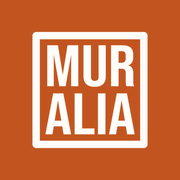
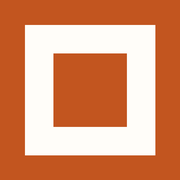
Actualizar sitio

diff --git a/index.html b/index.html
@@ -5,6 +5,7 @@
 <meta name="viewport" content="width=device-width, initial-scale=1.0">
 <title>Muralia | Aislación Térmica, Acústica y Protección Contra Incendios</title>
 <meta name="description" content="Muralia — más de 25 años en aislación térmica y acústica, protección pasiva contra incendios, tabiques, cielos y fachadas ventiladas en Chile.">
+<link rel="icon" type="image/svg+xml" href="favicon.svg">
 <link rel="icon" type="image/x-icon" href="favicon.ico">
 <link rel="icon" type="image/png" sizes="32x32" href="favicon-32.png">
 <link rel="apple-touch-icon" href="apple-touch-icon.png">

diff --git a/productos.html b/productos.html
@@ -5,6 +5,7 @@
 <meta name="viewport" content="width=device-width, initial-scale=1.0">
 <title>Productos | Muralia</title>
 <meta name="description" content="Aislación térmica y acústica, protección pasiva contra incendios, tabiques y cielos, y más soluciones Muralia para la construcción.">
+<link rel="icon" type="image/svg+xml" href="favicon.svg">
 <link rel="icon" type="image/x-icon" href="favicon.ico">
 <link rel="icon" type="image/png" sizes="32x32" href="favicon-32.png">
 <link rel="apple-touch-icon" href="apple-touch-icon.png">

diff --git a/empresa.html b/empresa.html
@@ -5,6 +5,7 @@
 <meta name="viewport" content="width=device-width, initial-scale=1.0">
 <title>Empresa | Muralia</title>
 <meta name="description" content="Conoce Muralia: más de 25 años de trayectoria en aislación térmica, acústica y protección pasiva contra incendios en Chile.">
+<link rel="icon" type="image/svg+xml" href="favicon.svg">
 <link rel="icon" type="image/x-icon" href="favicon.ico">
 <link rel="icon" type="image/png" sizes="32x32" href="favicon-32.png">
 <link rel="apple-touch-icon" href="apple-touch-icon.png">

diff --git a/contacto.html b/contacto.html
@@ -5,6 +5,7 @@
 <meta name="viewport" content="width=device-width, initial-scale=1.0">
 <title>Contacto | Muralia</title>
 <meta name="description" content="Contacta a Muralia para cotizar aislación térmica, acústica y protección pasiva contra incendios en tu proyecto.">
+<link rel="icon" type="image/svg+xml" href="favicon.svg">
 <link rel="icon" type="image/x-icon" href="favicon.ico">
 <link rel="icon" type="image/png" sizes="32x32" href="favicon-32.png">
 <link rel="apple-touch-icon" href="apple-touch-icon.png">
